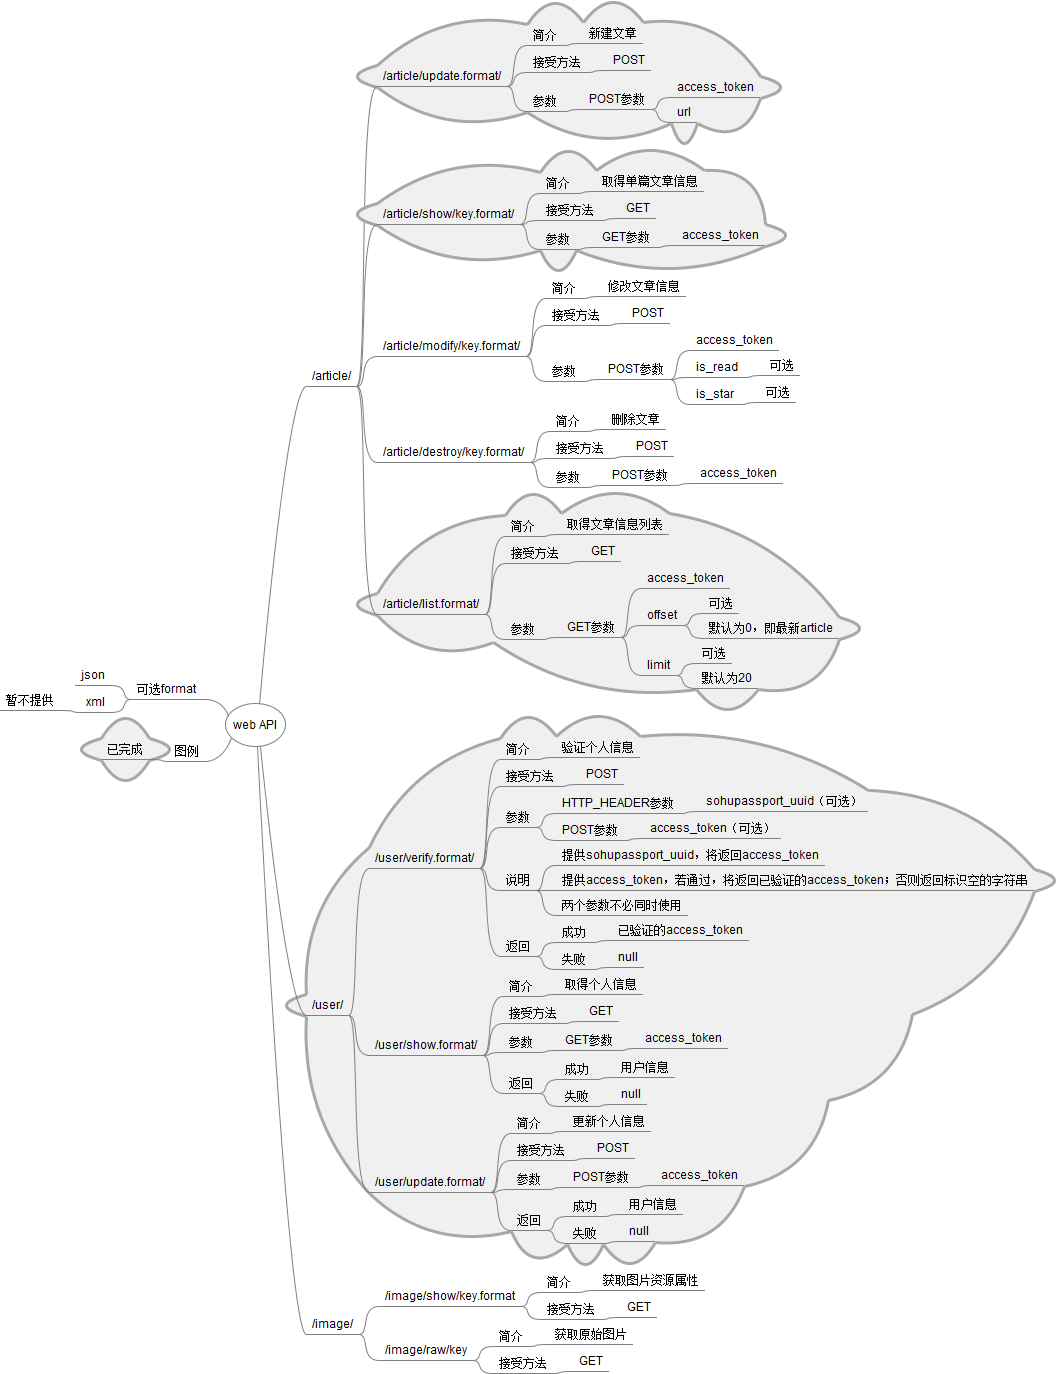
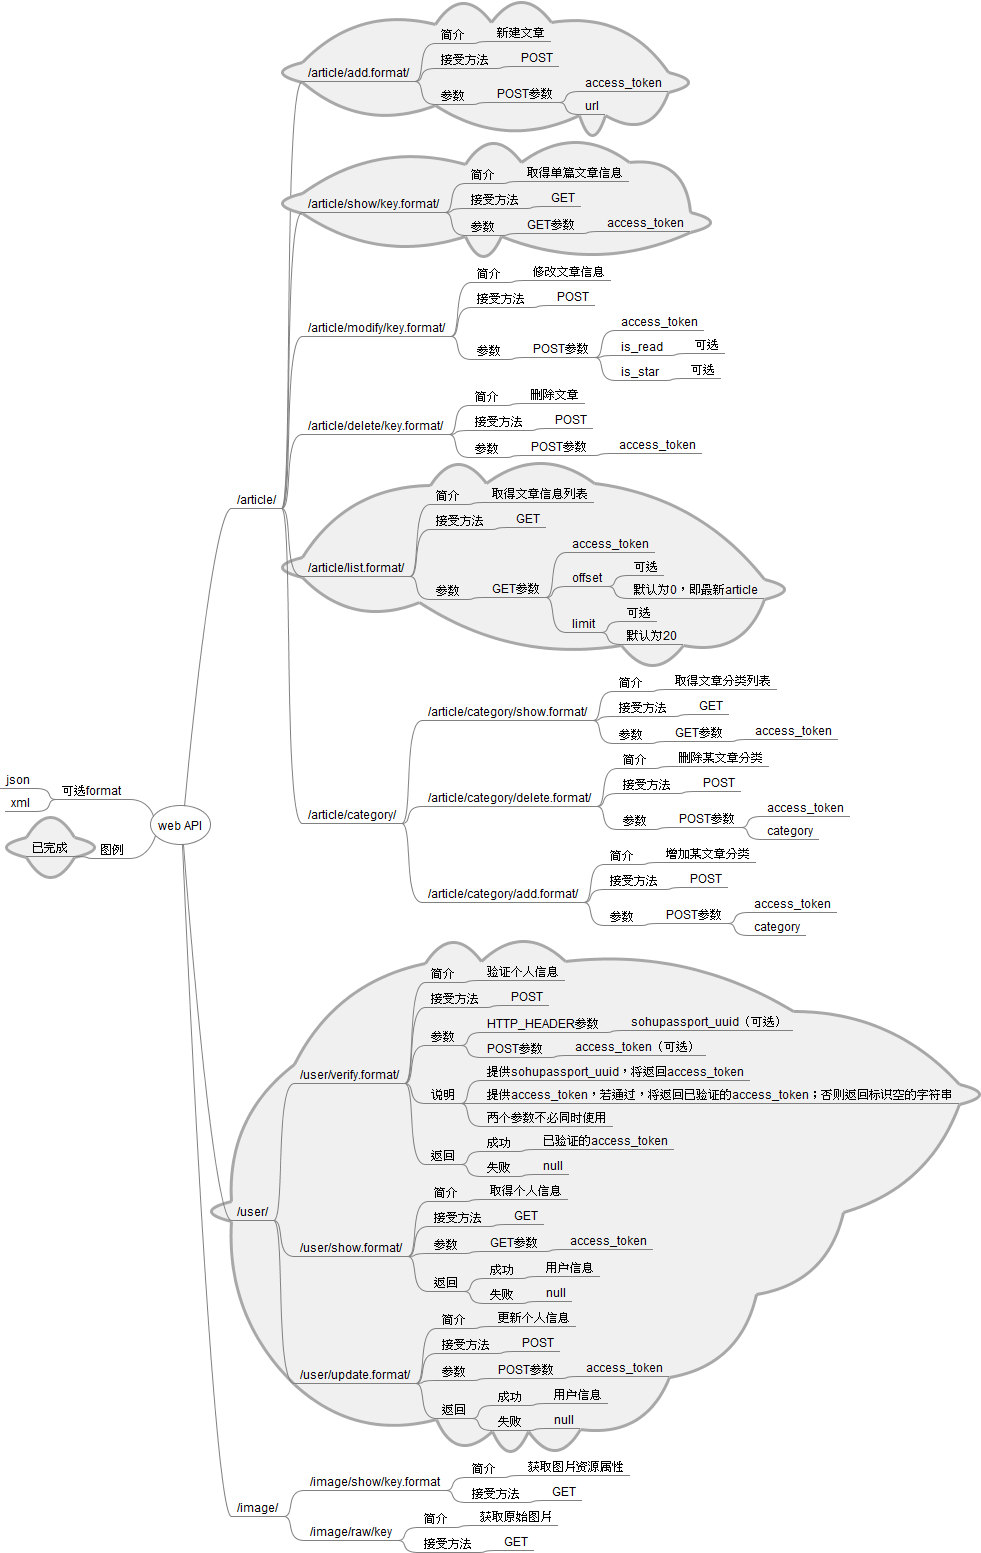
simplify test page by add access_token by default, solve mime missing bug, update web_API.png

Changed region(s): [[0.0, 0.0, 1.0, 1.0], [0.7339, 0.7948, 0.7951, 0.8559], [0.9174, 0.5808, 0.948, 0.6114]]

diff --git a/src/SohuPocketLib/templates/user_update_test.html b/src/SohuPocketLib/templates/user_update_test.html
@@ -5,7 +5,7 @@
 <body>
 <form action="../" method="POST">
 {% csrf_token %}
-access_token <input type="text" name="access_token"></input> <br>
+access_token <input type="text" name="access_token" value="649cfef6a94ee38f0c82a26dc8ad341292c7510e"></input> <br>
 kan_username <input type="text" name="kan_username"></input> <br>
 kan_self_description <input type="text" name="kan_self_description"></input> <br>
 <input type="submit" name="submit"></input>

diff --git a/src/SohuPocketLib/templates/article_modify_test.html b/src/SohuPocketLib/templates/article_modify_test.html
@@ -5,7 +5,7 @@
 <body>
 <form action="../" method="POST">
 {% csrf_token %}
-access_token <input type="text" name="access_token"></input> <br>
+access_token <input type="text" name="access_token" value="649cfef6a94ee38f0c82a26dc8ad341292c7510e"></input> <br>
 is_read <input type="text" name="is_read"></input> <br>
 is_star <input type="text" name="is_star"></input> <br>
 <input type="submit"></input>

diff --git a/src/SohuPocketLib/templates/user_verify_test.html b/src/SohuPocketLib/templates/user_verify_test.html
@@ -6,7 +6,7 @@
 <form action="../" method="POST">
 {% csrf_token %}
 sohupassport_uuid <input type="text" name="sohupassport_uuid"></input> <br>
-access_token <input type="text" name="access_token"></input> <br>
+access_token <input type="text" name="access_token" value="649cfef6a94ee38f0c82a26dc8ad341292c7510e"></input> <br>
 <input type="submit"></input>
 </form>
 </body>

diff --git a/src/SohuPocketLib/templates/article_update_test.html b/src/SohuPocketLib/templates/article_update_test.html
@@ -5,7 +5,7 @@
 <body>
 <form action="../" method="POST">
 {% csrf_token %}
-access_token <input type="text" name="access_token"></input> <br>
+access_token <input type="text" name="access_token" value="649cfef6a94ee38f0c82a26dc8ad341292c7510e"></input> <br>
 url <input type="text" name="url"></input> <br>
 <input type="submit"></input>
 </form>

diff --git a/src/SohuPocketLib/templates/article_destroy_test.html b/src/SohuPocketLib/templates/article_destroy_test.html
@@ -5,7 +5,7 @@
 <body>
 <form action="../" method="POST">
 {% csrf_token %}
-access_token <input type="text" name="access_token"></input> <br>
+access_token <input type="text" name="access_token" value="649cfef6a94ee38f0c82a26dc8ad341292c7510e"></input> <br>
 <input type="submit"></input>
 </form>
 </body>

diff --git a/src/SohuPocketLib/templates/article_list_test.html b/src/SohuPocketLib/templates/article_list_test.html
@@ -5,7 +5,7 @@
 <body>
 <form action="../" method="GET">
 {% csrf_token %}
-access_token <input type="text" name="access_token"></input> <br>
+access_token <input type="text" name="access_token" value="649cfef6a94ee38f0c82a26dc8ad341292c7510e"></input> <br>
 <input type="submit"></input>
 </form>
 </body>

diff --git a/src/SohuPocketLib/templates/article_show_test.html b/src/SohuPocketLib/templates/article_show_test.html
@@ -5,7 +5,7 @@
 <body>
 <form action="../" method="GET">
 {% csrf_token %}
-access_token <input type="text" name="access_token"></input> <br>
+access_token <input type="text" name="access_token" value="649cfef6a94ee38f0c82a26dc8ad341292c7510e"></input> <br>
 <input type="submit"></input>
 </form>
 </body>

diff --git a/src/SohuPocketLib/templates/user_show_test.html b/src/SohuPocketLib/templates/user_show_test.html
@@ -5,7 +5,7 @@
 <body>
 <form action="../" method="GET">
 {% csrf_token %}
-access_token <input type="text" name="access_token"></input> <br>
+access_token <input type="text" name="access_token" value="649cfef6a94ee38f0c82a26dc8ad341292c7510e"></input> <br>
 <input type="submit"></input>
 </form>
 </body>

diff --git a/src/SohuPocketLib/article/views.py b/src/SohuPocketLib/article/views.py
@@ -10,6 +10,7 @@ from django.template import RequestContext
 from lxml import etree
 from page.tasks import PageFetchHandler
 from user.helper import KanUser
+import logging
 
 
 def list(request, format):
@@ -17,6 +18,8 @@ def list(request, format):
     kan_user = KanUser('', access_token_input)
     kan_user.verify_and_login()
     response = None
+    mimetype = 'text/plain'
+    logging.warning(str(request.GET))
     if kan_user.is_logged_in():
         if format == 'xml':
             myarticle_list_etree = get_myarticle_list_to_xml_etree(kan_user.get_user_id(),
@@ -41,6 +44,8 @@ def show(request, key, format):
     kan_user = KanUser('', access_token_input)
     kan_user.verify_and_login()
     response = None
+    mimetype = 'text/plain'
+    logging.warning(str(request.GET))
     if kan_user.is_logged_in():
         if format == 'xml':
             myarticle_instance_etree = get_myarticle_instance_to_xml_etree(kan_user.get_user_id(), key)
@@ -61,6 +66,8 @@ def update(request, format):
     kan_user = KanUser('', access_token_input)
     kan_user.verify_and_login()
     response = None
+    logging.warning(str(request.POST))
+    mimetype = 'text/plain'
     if kan_user.is_logged_in():
         update_article_info = UpdateArticleInfo(kan_user.get_user_id())
         try:
@@ -84,6 +91,7 @@ def update_test(request, *args, **kwargs):
 
 def destroy(request, key, format):
     access_token_input = input_for_destroy_func(request)
+    logging.warning(str(request.POST))
     modify_info = dict()
     modify_info['is_delete'] ='YES'
     
@@ -98,6 +106,7 @@ def destroy_test(request, *args, **kwargs):
         
 def modify(request, key, format):
     access_token_input, modify_info = input_for_modify_func(request)
+    logging.warning(str(request.POST))
     
     return modify_or_destroy_base(access_token_input, modify_info, key, format)
 
@@ -113,6 +122,7 @@ def modify_or_destroy_base(access_token_input, modify_info, key, format):
     kan_user.verify_and_login()
     response = None
     is_successful = False
+    mimetype = 'text/plain'
     if kan_user.is_logged_in():
         user_id = kan_user.get_user_id()
         is_successful = modify_or_destroy_myarticle_instance(user_id, key, modify_info)

diff --git a/src/SohuPocketLib/article/models.py b/src/SohuPocketLib/article/models.py
@@ -8,7 +8,7 @@ from django.db import models
 class MyArticleInstance(MultiDB):
     
 #    user_id = models.IntegerField()
-    key = models.CharField(max_length=256)                       #从S3获取静态文件
+    key = models.CharField(max_length=256)                      #从S3获取静态文件
     title = models.CharField(max_length=512)                    #文章的标题
     url = models.URLField()                                     #文章原始URL
     is_read = models.BooleanField(default=False)                #是否已读   
@@ -16,9 +16,9 @@ class MyArticleInstance(MultiDB):
     is_star = models.BooleanField(default=False)                #是否标记星标
     is_delete = models.BooleanField(default=False)              #是否删除
     create_time = models.DateTimeField(auto_now_add=True)       #文章创建时间
-    read_time = models.DateTimeField(null=True, blank=True)   #标记为已读时间
+    read_time = models.DateTimeField(null=True, blank=True)     #标记为已读时间
     delete_time = models.DateTimeField(null=True, blank=True)   #标记为删除时间
-    is_ready = models.BooleanField(default=False)
+    is_ready = models.BooleanField(default=False)               #是否已处理完毕
 
     def __unicode__(self):
         
@@ -45,4 +45,3 @@ class MyArticleInstance(MultiDB):
         self.delete_cache()
         
         return None
-    

diff --git a/src/SohuPocketLib/urls.py b/src/SohuPocketLib/urls.py
@@ -21,8 +21,8 @@ urlpatterns = patterns('',
     (r'^user/update\.json/$', 'SohuPocketLib.user.views.update'),
     (r'^user/update\.json/test/$', 'SohuPocketLib.user.views.update_test'),
     
-    (r'^article/update\.(?P<format>\w+)/$', 'SohuPocketLib.article.views.update'),
-    (r'^article/update\.(?P<format>\w+)/test/$', 'SohuPocketLib.article.views.update_test'),
+    (r'^article/add\.(?P<format>\w+)/$', 'SohuPocketLib.article.views.update'),
+    (r'^article/add\.(?P<format>\w+)/test/$', 'SohuPocketLib.article.views.update_test'),
     
     (r'^article/list\.(?P<format>\w+)/$', 'SohuPocketLib.article.views.list'),
     (r'^article/list\.(?P<format>\w+)/test/$', 'SohuPocketLib.article.views.list_test'),
@@ -33,6 +33,6 @@ urlpatterns = patterns('',
     (r'^article/modify/(?P<key>\w+)\.(?P<format>\w+)/$', 'SohuPocketLib.article.views.modify'),
     (r'^article/modify/(?P<key>\w+)\.(?P<format>\w+)/test/$', 'SohuPocketLib.article.views.modify_test'),
     
-    (r'^article/destroy/(?P<key>\w+)\.(?P<format>\w+)/$', 'SohuPocketLib.article.views.destroy'),
-    (r'^article/destroy/(?P<key>\w+)\.(?P<format>\w+)/test/$', 'SohuPocketLib.article.views.destroy_test'),
+    (r'^article/delete/(?P<key>\w+)\.(?P<format>\w+)/$', 'SohuPocketLib.article.views.destroy'),
+    (r'^article/delete/(?P<key>\w+)\.(?P<format>\w+)/test/$', 'SohuPocketLib.article.views.destroy_test'),
 )

diff --git a/src/SohuPocketLib/settings.py b/src/SohuPocketLib/settings.py
@@ -170,5 +170,29 @@ BROKER_VHOST = "/"
 
 CELERY_DISABLE_RATE_LIMITS = True
 
+#CELERY_QUEUES = {
+#                 "default": {
+#                             "exchange": "default",
+#                             "binding_key": "default"
+#                             },
+#                 "pages": {
+#                           "exchange": "media",
+#                           "binding_key": "media.page",
+#                           },
+#                 "images": {
+#                            "exchange": "media",
+#                            "binding_key": "media.image",
+#                            },
+#                 "videos": {
+#                            "exchange": "media",
+#                            "binding_key": "media.video",
+#                            },
+#                 }
+#
+#CELERY_DEFAULT_QUEUE = "default"
+#CELERY_DEFAULT_EXCHANGE = "default"
+#CELERY_DEFAULT_EXCHANGE_TYPE = "direct"
+#CELERY_DEFAULT_ROUTING_KEY = "default"
+
 AWS_SECRET_ACCESS_KEY = 'rfUdPSAC2hXhHMGG0wXiHcxeuEpqybEGxn8xPYMy'
 AWS_ACCESS_KEY_ID = 'AKIAIXEPRIJSQA4A2KOA'
